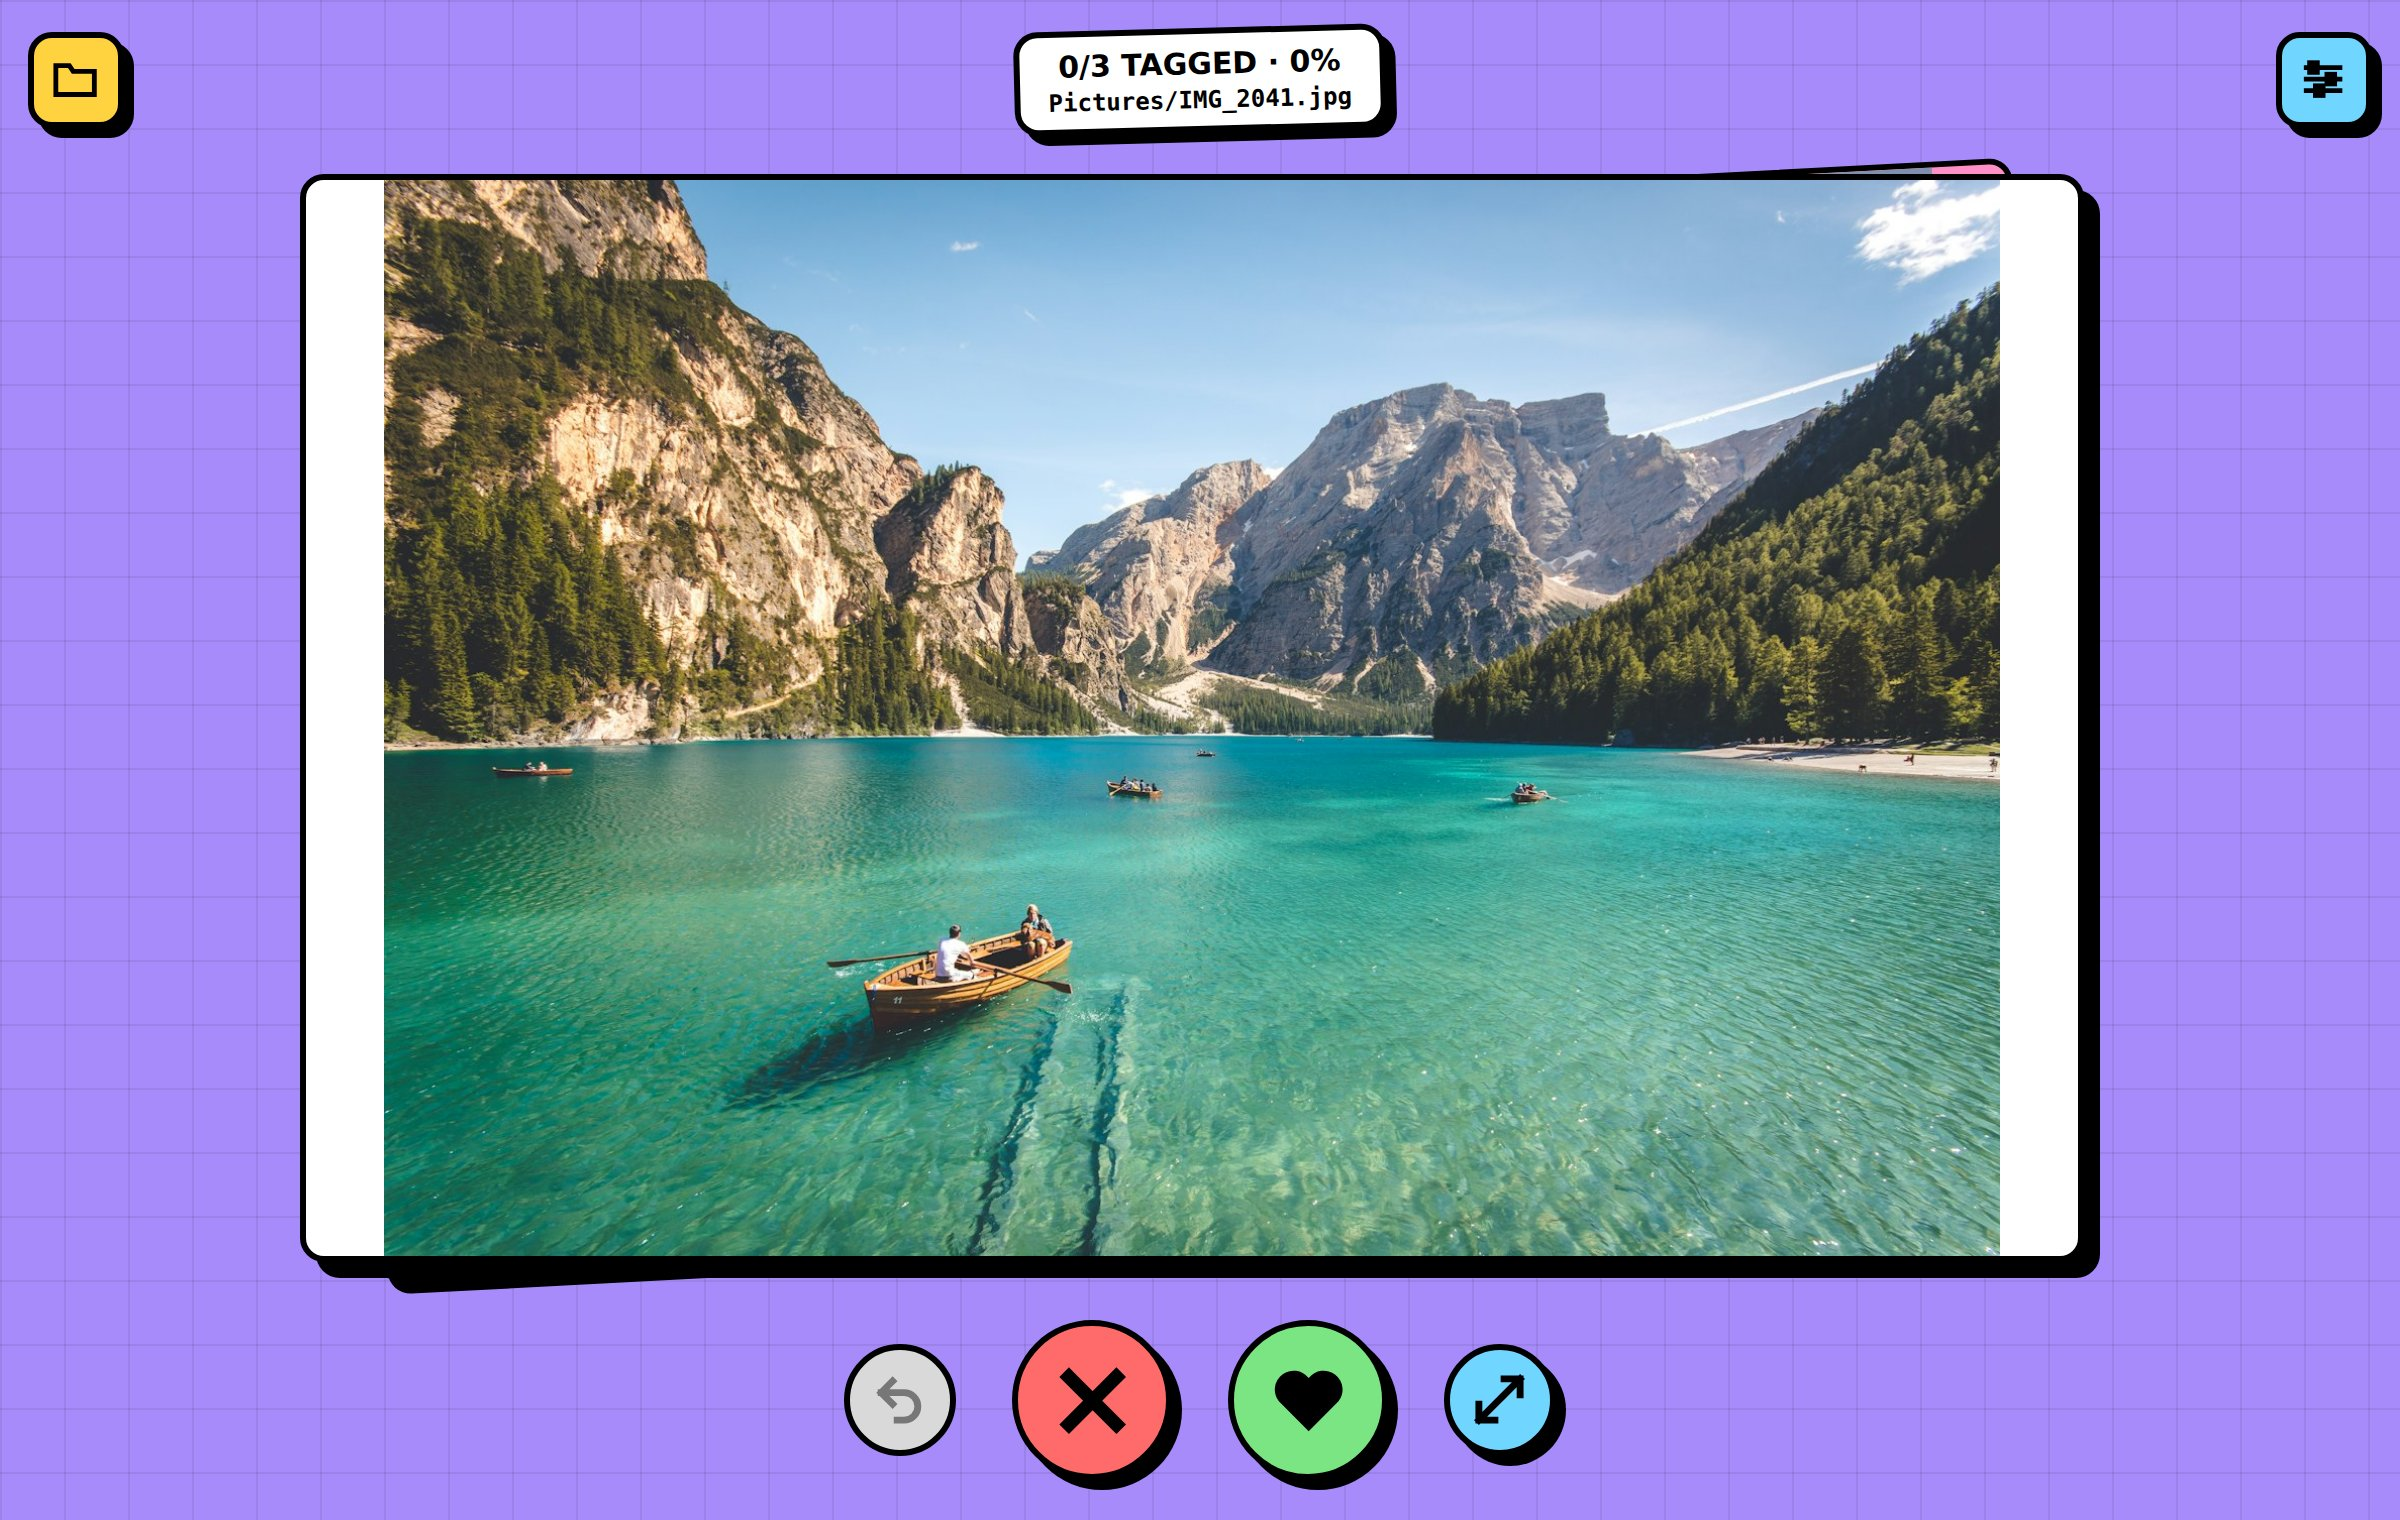
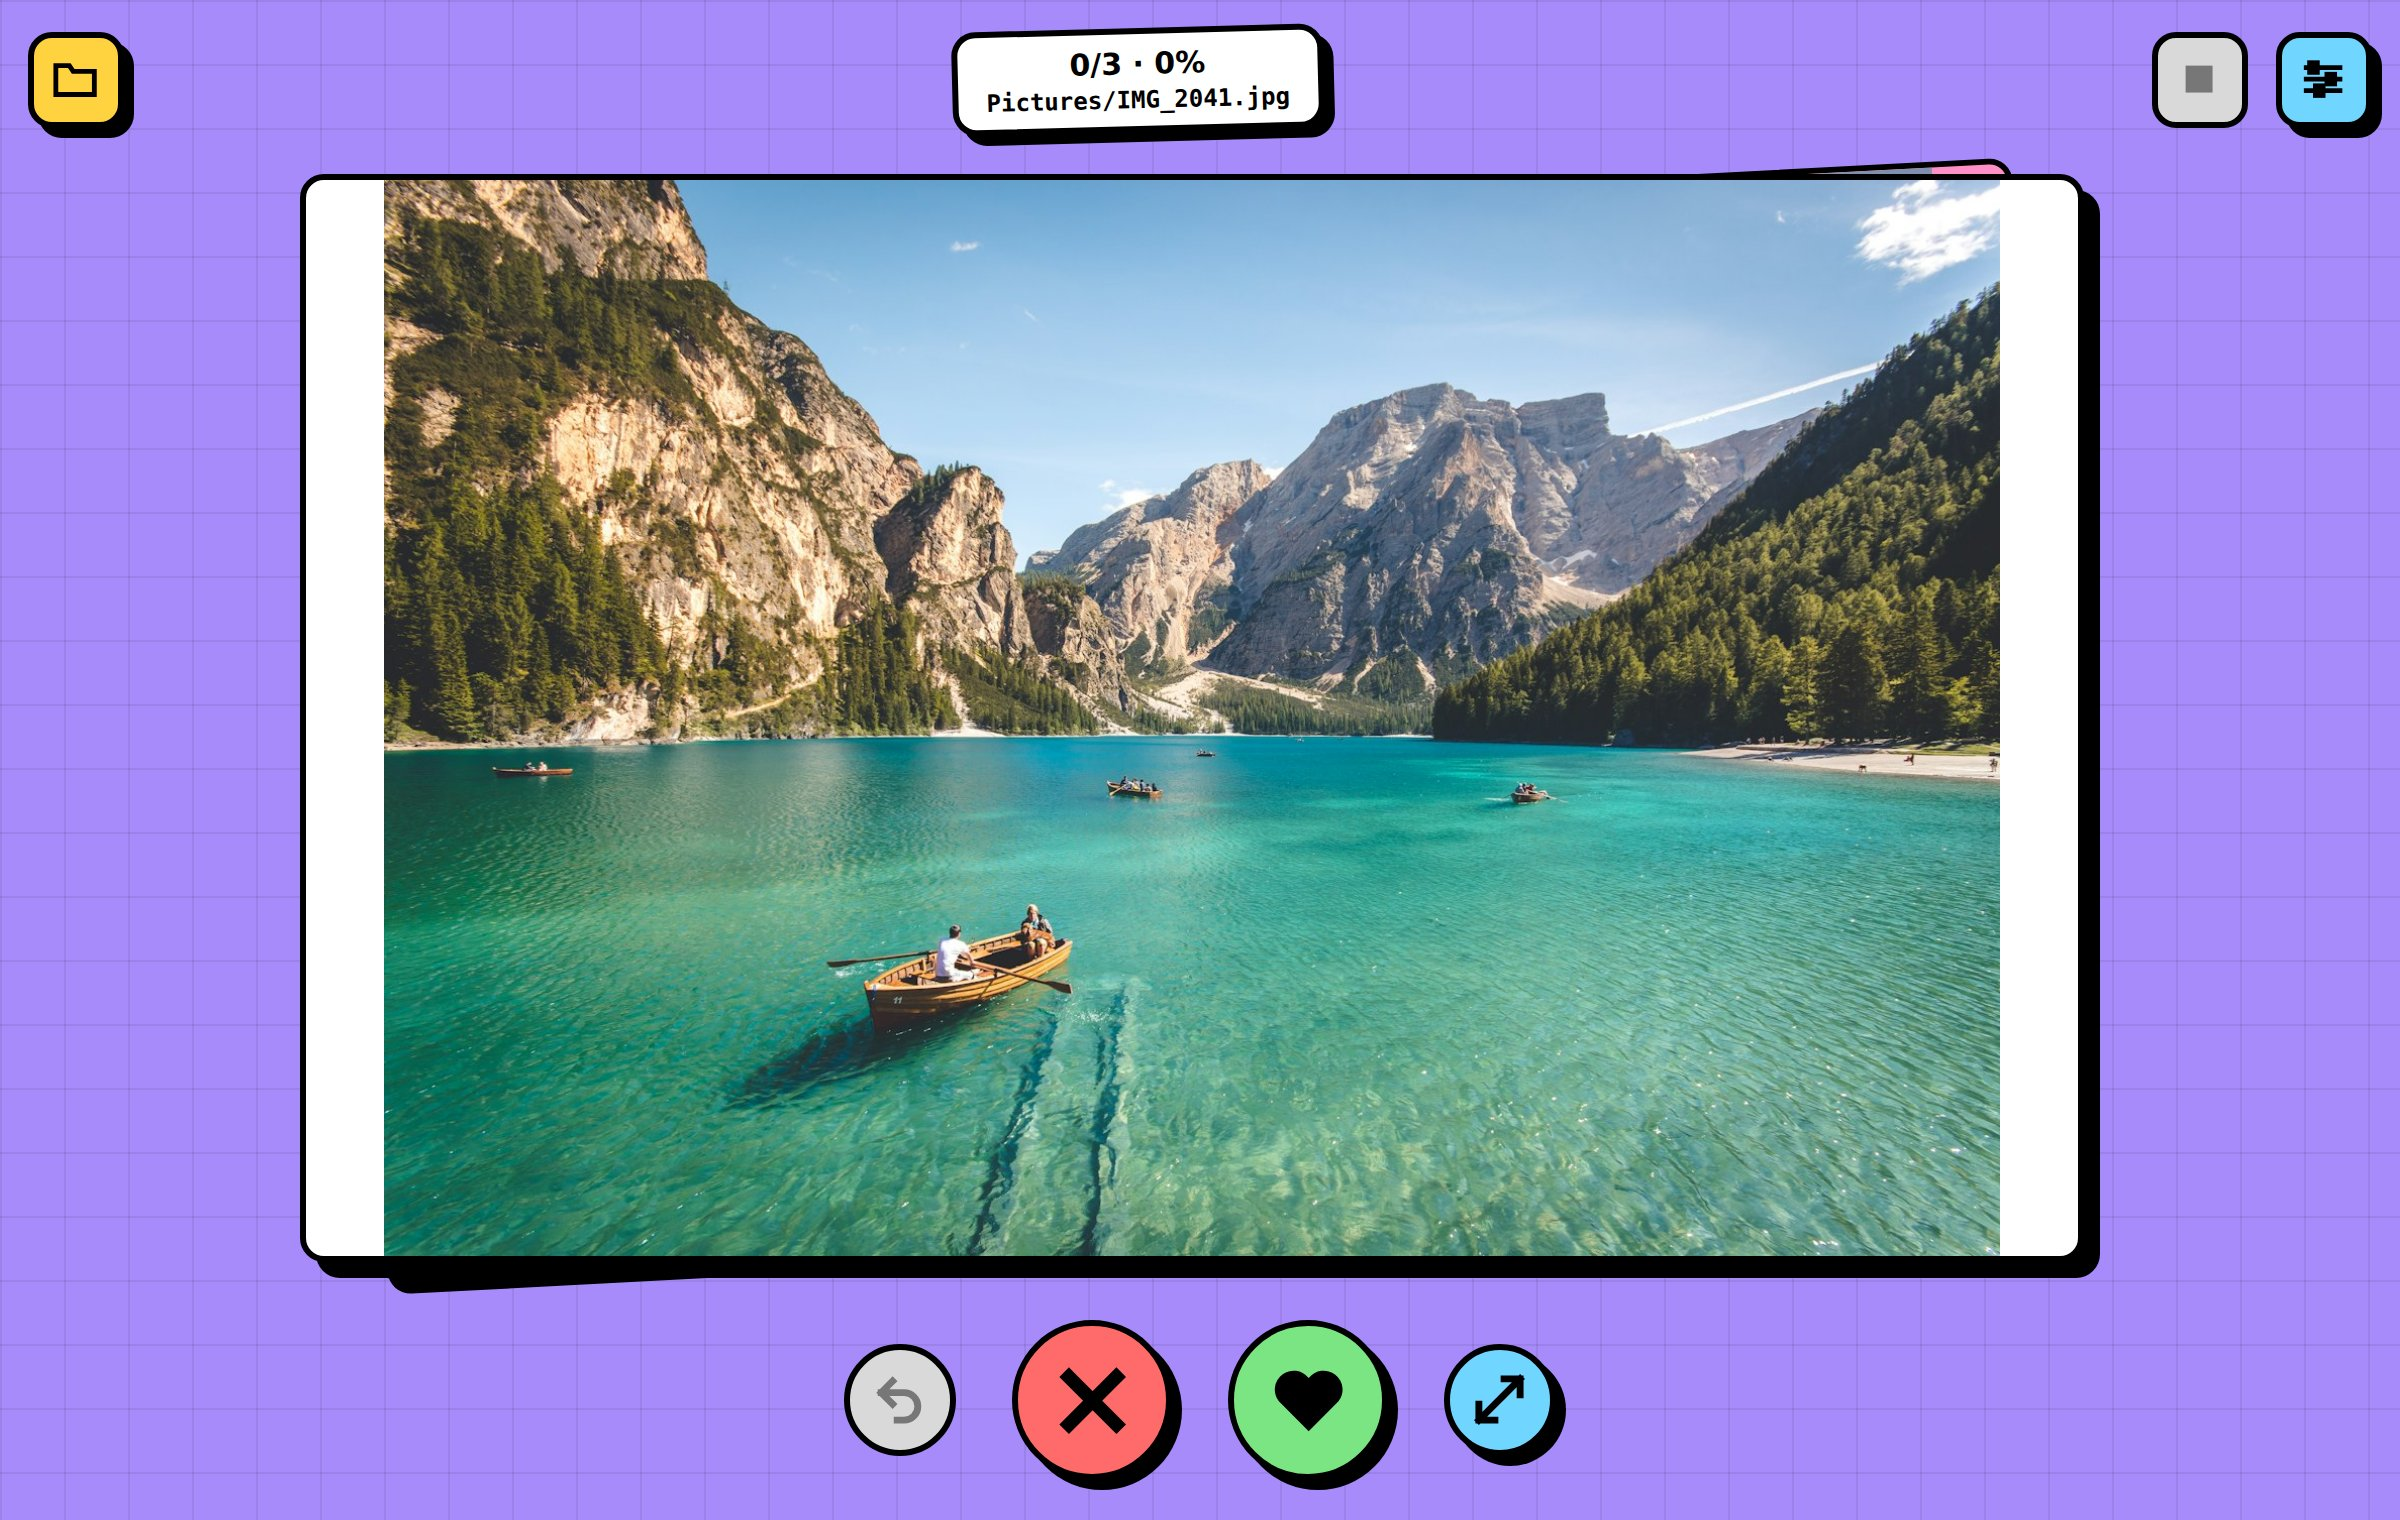
Add Stop: end early with the same delete question
A Stop button (key S) asks "Stop here?" and, if confirmed, ends the
session and offers the same delete flow as finishing; unsorted pictures
are left where they are. Icon buttons now get their labels at startup,
not only after Settings is opened. Status chip is shorter so it fits
on phones; README screenshots retaken.

Changed region(s): [[0.375, 0.0, 0.5938, 0.0928], [0.875, 0.0, 0.9375, 0.0928]]

diff --git a/index.html b/index.html
@@ -36,15 +36,17 @@
   button:disabled { background: var(--off); color: rgb(0 0 0 / .45); box-shadow: none; transform: none; cursor: not-allowed; }
   button svg { width: 55%; height: 55%; }
 
-  header { display: grid; grid-template-columns: var(--bar) 1fr var(--bar); gap: var(--gap); align-items: center; }
+  header { display: grid; grid-template-columns: var(--bar) 1fr var(--bar) var(--bar); gap: var(--gap); align-items: center; }
   header button { width: var(--bar); height: var(--bar); }
   [data-act=folder] { background: var(--yellow); }
   #open-settings { background: var(--cyan); }
+  [data-act=stop] { background: var(--pink); }
   #status {
     justify-self: center; max-width: 100%; min-width: 0; padding: 6px 14px; text-align: center; text-transform: uppercase;
     background: var(--paper); border: var(--line) solid var(--ink); border-radius: var(--radius); box-shadow: var(--shadow);
     transform: rotate(-1.5deg);
   }
+  #count { display: block; white-space: nowrap; overflow: hidden; text-overflow: ellipsis; }
   #name { display: block; font: 700 12px var(--mono); text-transform: none; white-space: nowrap; overflow: hidden; text-overflow: ellipsis; }
   #name:empty { display: none; }
 
@@ -101,12 +103,14 @@
   <symbol id="i-heart" viewBox="0 0 24 24" fill="currentColor"><path d="M12 21 3.2 12.2A5.2 5.2 0 0 1 12 5.3a5.2 5.2 0 0 1 8.8 6.9z"/></symbol>
   <symbol id="i-cross" viewBox="0 0 24 24" fill="none" stroke="currentColor" stroke-width="4" stroke-linecap="square"><path d="M5 5l14 14M19 5 5 19"/></symbol>
   <symbol id="i-undo" viewBox="0 0 24 24" fill="none" stroke="currentColor" stroke-width="3" stroke-linecap="square"><path d="M9 14 4 9l5-5M4 9h10a6 6 0 0 1 0 12h-3"/></symbol>
+  <symbol id="i-stop" viewBox="0 0 24 24" fill="currentColor"><rect x="5" y="5" width="14" height="14"/></symbol>
   <symbol id="i-expand" viewBox="0 0 24 24" fill="none" stroke="currentColor" stroke-width="3" stroke-linecap="square"><path d="M14 3h7v7M10 21H3v-7M21 3l-8 8M3 21l8-8"/></symbol>
 </svg>
 
 <header>
   <button data-act="folder"><svg><use href="#i-folder"/></svg></button>
   <div id="status"><span id="count">QUIT // QUICK IMAGE TAGGER</span><span id="name"></span></div>
+  <button data-act="stop"><svg><use href="#i-stop"/></svg></button>
   <button id="open-settings" aria-label="Settings" title="Settings"><svg><use href="#i-settings"/></svg></button>
 </header>
 
@@ -144,7 +148,7 @@ const TAP = 8;      // px of movement still treated as a tap
 // Default keys come from the original QUIT.
 const ACTIONS = {
   folder: ['Pick folder', 'b'], back: ['Back', 'f'], next: ['Next', 'j'], keep: ['Keep', 'k'],
-  delete: ['Delete', 'd'], undo: ['Undo', 'z'], view: ['Open full size', 'v'],
+  delete: ['Delete', 'd'], undo: ['Undo', 'z'], view: ['Open full size', 'v'], stop: ['Stop', 's'],
 };
 const DEFAULT_KEYS = Object.fromEntries(Object.entries(ACTIONS).map(([a, [, k]]) => [a, k]));
 let keys = { ...DEFAULT_KEYS };
@@ -231,6 +235,7 @@ const run = {
   delete: () => swipe('delete', -1),
   undo,
   view: () => { const u = urls.get(files[i]); if (u) window.open(u, '_blank'); }, // must stay sync for popup blockers
+  stop,
 };
 
 async function act(name) {
@@ -256,11 +261,20 @@ function ask(title, text, choices) {
   return new Promise(r => d.addEventListener('close', () => r(d.returnValue), { once: true }));
 }
 
-async function finish() {
+// End early: pictures not sorted yet stay where they are; then the same question as when done.
+async function stop() {
+  if (await ask('Stop here?', `You sorted ${total - files.length} of ${total}. The other ${files.length} stay in “${dir.name}” untouched.`,
+    [['yes', 'Stop'], ['no', 'Keep going', 'calm']]) !== 'yes') return;
+  total -= files.length; files = []; i = 0;
+  note = 'Stopped. Check /keep and /delete';
+  await finish('Stopped!');
+}
+
+async function finish(title = 'All done!') {
   const n = history.filter(([tag]) => tag === 'delete').length, where = `“${dir.name}”`;
-  let a = await ask('All done!', 'Do you want to DELETE?', [['yes', 'Yes', 'danger'], ['no', 'No'], ['unsure', "? I'm not sure", 'calm']]);
+  let a = await ask(title, 'Do you want to DELETE?', [['yes', 'Yes', 'danger'], ['no', 'No'], ['unsure', "? I'm not sure", 'calm']]);
   if (a === 'unsure') a = await ask("I'm not sure",
-    `All pictures were moved into 2 new folders in ${where}: keep and delete. ` +
+    `The pictures you sorted were moved into 2 new folders in ${where}: keep and delete. ` +
     `Press DELETE to actually delete the images in delete and put the kept ones back in ${where}. Or just skip and end here.`,
     [['yes', 'DELETE', 'danger'], ['no', 'Not now']]);
   if (a !== 'yes') return;
@@ -289,7 +303,7 @@ async function render() {
   card.style.transition = '';
 
   const done = total - files.length;
-  $('#count').textContent = dir ? `${done}/${total} tagged · ${total ? Math.floor(done * 100 / total) : 0}%` : 'QUIT // QUICK IMAGE TAGGER';
+  $('#count').textContent = dir ? `${done}/${total} · ${total ? Math.floor(done * 100 / total) : 0}%` : 'QUIT // QUICK IMAGE TAGGER';
   $('#name').textContent = h ? `${dir.name}/${h.name}` : dir ? dir.name : '';
   msg.textContent =
     !window.showDirectoryPicker ? "This browser can't move files. Use Chrome or Edge (desktop or Android)." :
@@ -299,7 +313,7 @@ async function render() {
     !src ? `Can't read ${h.name}` : '';
   for (const b of document.querySelectorAll('[data-act]')) {
     const a = b.dataset.act;
-    b.disabled = a === 'folder' ? !window.showDirectoryPicker : a === 'undo' ? !history.length : !h;
+    b.disabled = a === 'folder' ? !window.showDirectoryPicker : a === 'undo' ? !history.length : a === 'stop' ? !history.length || !h : !h;
   }
 }
 img.onerror = () => { img.hidden = true; msg.textContent = `Can't read ${files[i]?.name}`; };
@@ -410,6 +424,7 @@ async function selftest() {
   }
 }
 
+drawKeys(); // also gives the icon buttons their labels and tooltips
 if (location.hash === '#selftest') selftest().catch(e => 'SELFTEST FAIL: ' + e.message).then(async r => { await render(); msg.textContent = r; });
 else render();
 </script>

diff --git a/README.md b/README.md
@@ -27,6 +27,7 @@ Pick a folder (top-left). It shows the folder's `.png`, `.jpg`, `.jpeg` and `.gi
 | ↶ | `Z` | Undo the last keep/delete (as far back as you like) |
 | ⤢ | `V` | Open full size in a new tab, to zoom |
 | 📁 | `B` | Pick folder |
+| ■ (top) | `S` | Stop: end early (unsorted pictures stay put) and get the same delete question as when done |
 
 Keys can be remapped in Settings (top-right); they're saved in the browser.
 
@@ -34,7 +35,7 @@ If `keep/` or `delete/` already holds a file with the same name, the move is ref
 
 ### Finishing a folder
 
-After the last picture QUIT asks **All done! Do you want to DELETE?** (Yes / No / I'm not sure). Yes, or DELETE from the "I'm not sure" explanation, asks for one more confirmation with the count, then:
+After the last picture, or when you press Stop and confirm, QUIT asks **All done! Do you want to DELETE?** (Yes / No / I'm not sure). Yes, or DELETE from the "I'm not sure" explanation, asks for one more confirmation with the count, then:
 
 - permanently deletes the pictures you marked delete in this session (other files already in `delete/` are left alone; browsers have no recycle bin),
 - moves the kept pictures back into the original folder,
